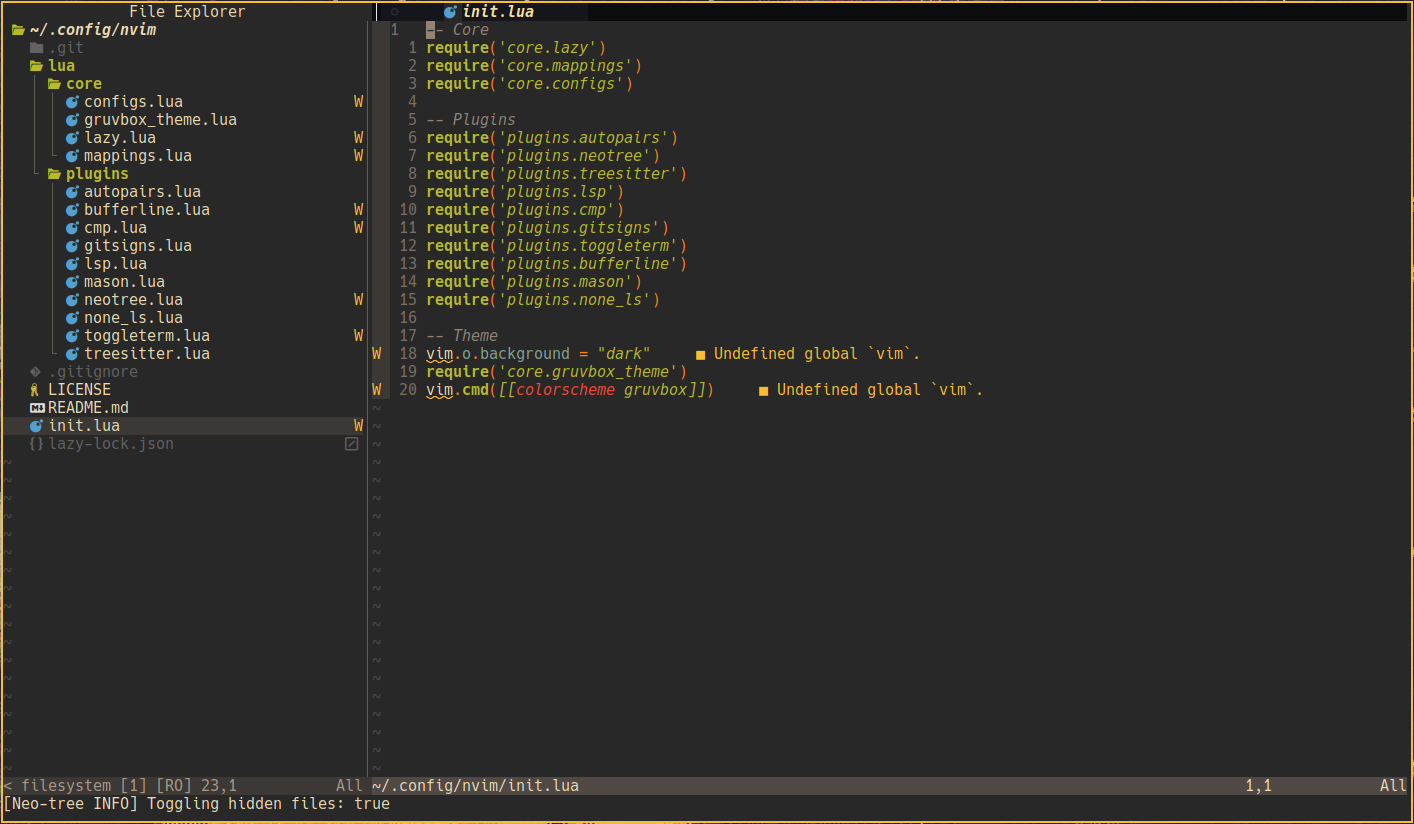
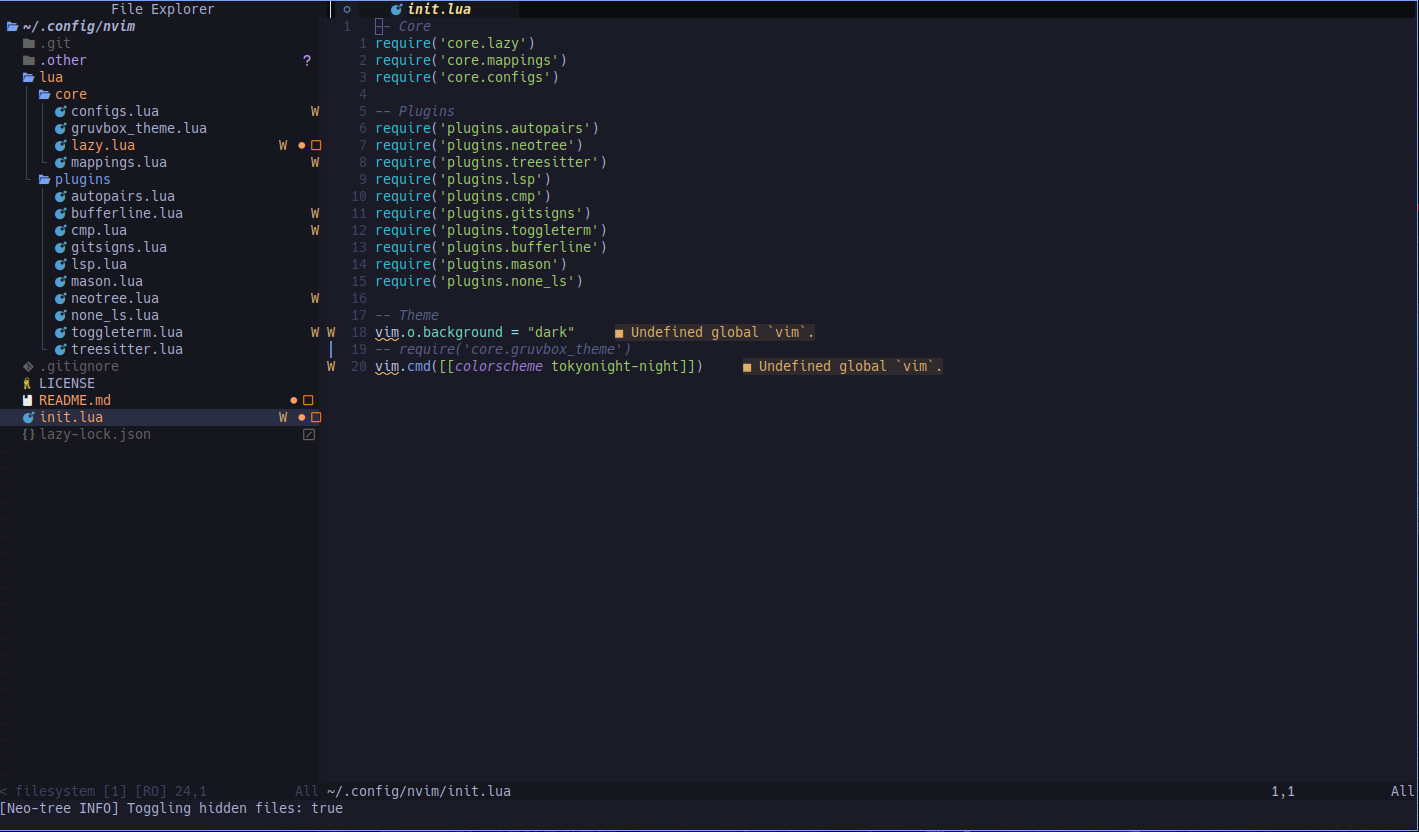
Changed theme to TokyoNight, small changes in README.md and new screenshot, old renamed to old-screenshot

diff --git a/README.md b/README.md
@@ -1,7 +1,7 @@
 # StarNVim
-<div><img src="/.other/screenshot.png"></div>
+<div><img src="/.other/old-screenshot.png"></div>
 
-<h4 align="center">My personal NeoVim configuration with the GruvBox theme, focused on Python development</h4>
+<h4 align="center">My personal NeoVim configuration with the TokyoNight theme, focused on Python development</h4>
 
 ## 🛠  Main Plugins
 
@@ -55,7 +55,7 @@ mkdir nvim
 <details><summary>Installation</summary>
  
 ```sh
-git clone https://github.com/qstargest/StarNVim.git
+git clone https://github.com/qstargest/StarNVim.git nvim
 cd
 nvim
 ```
